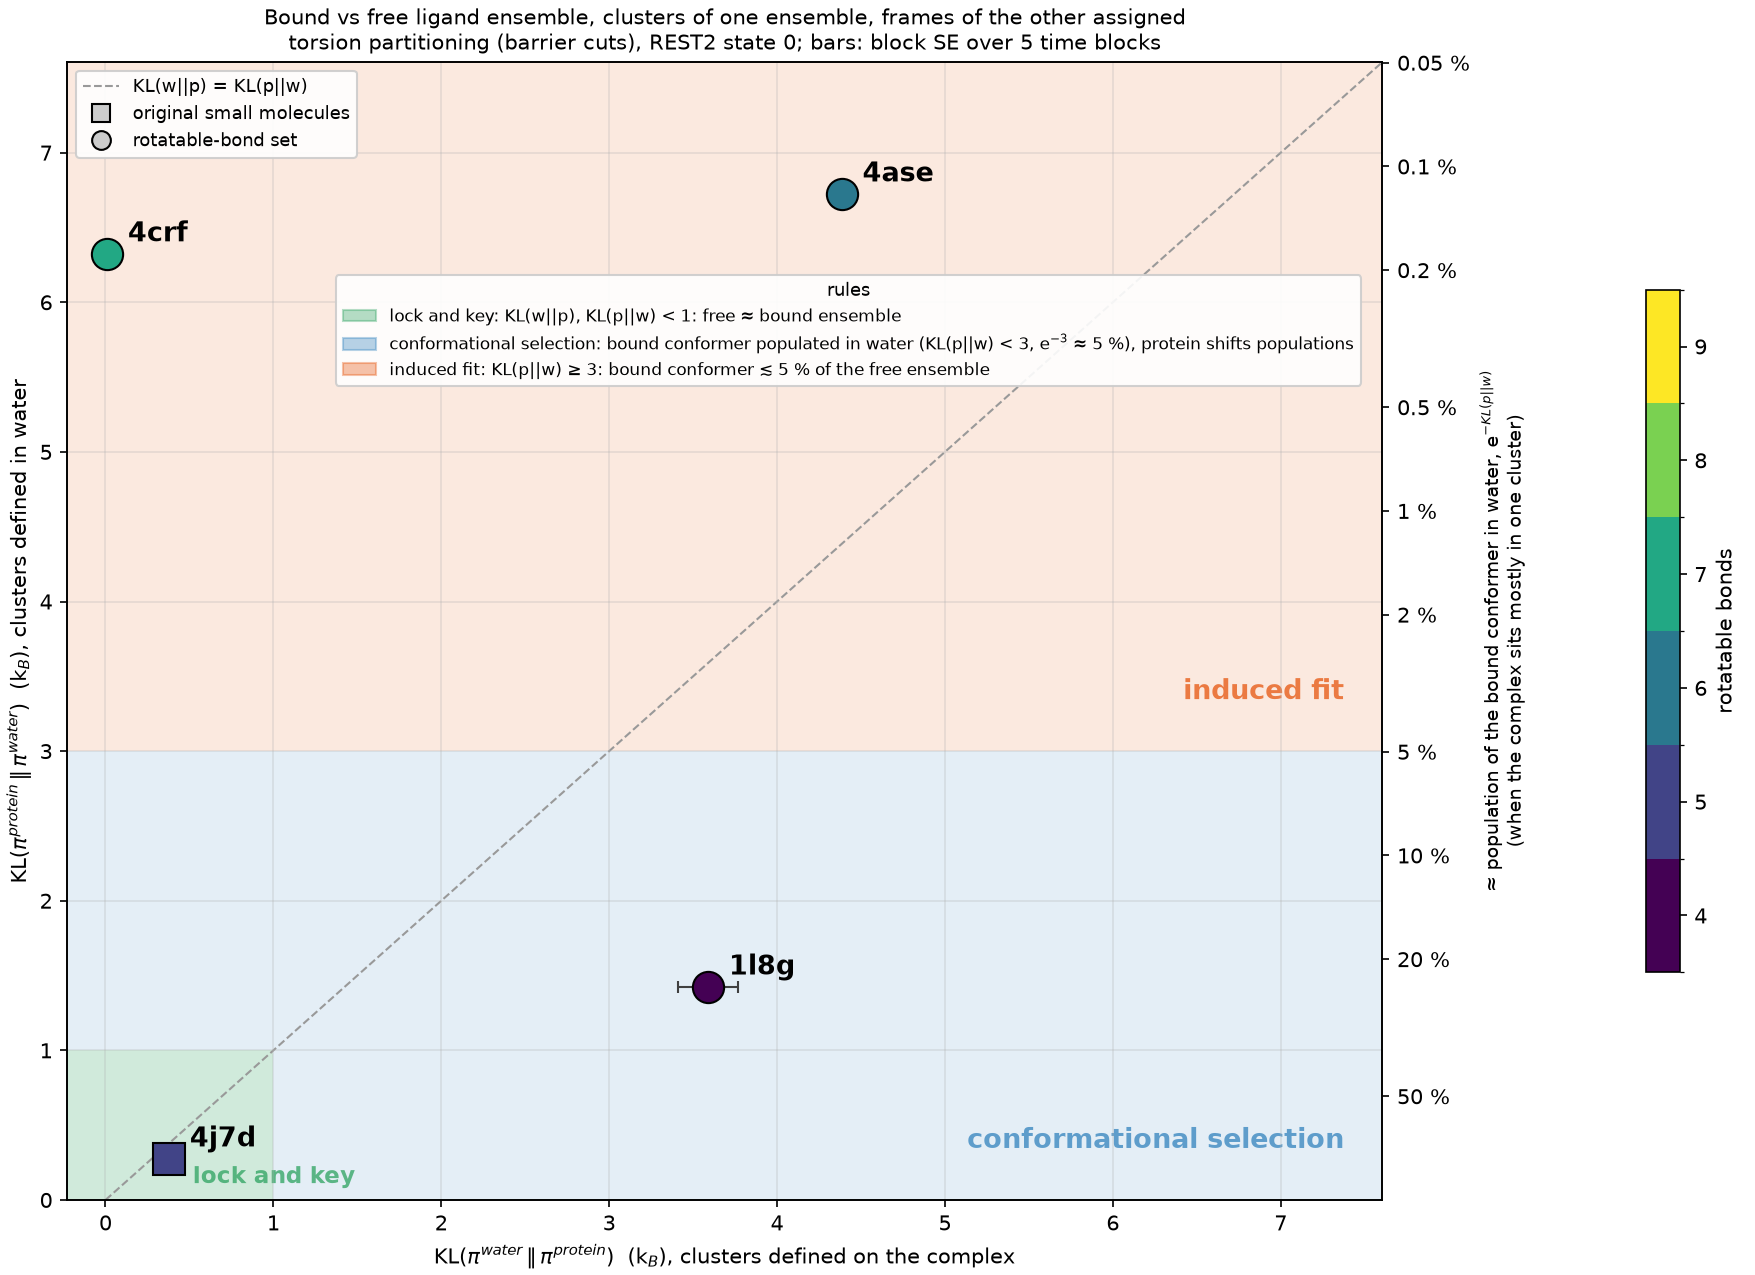
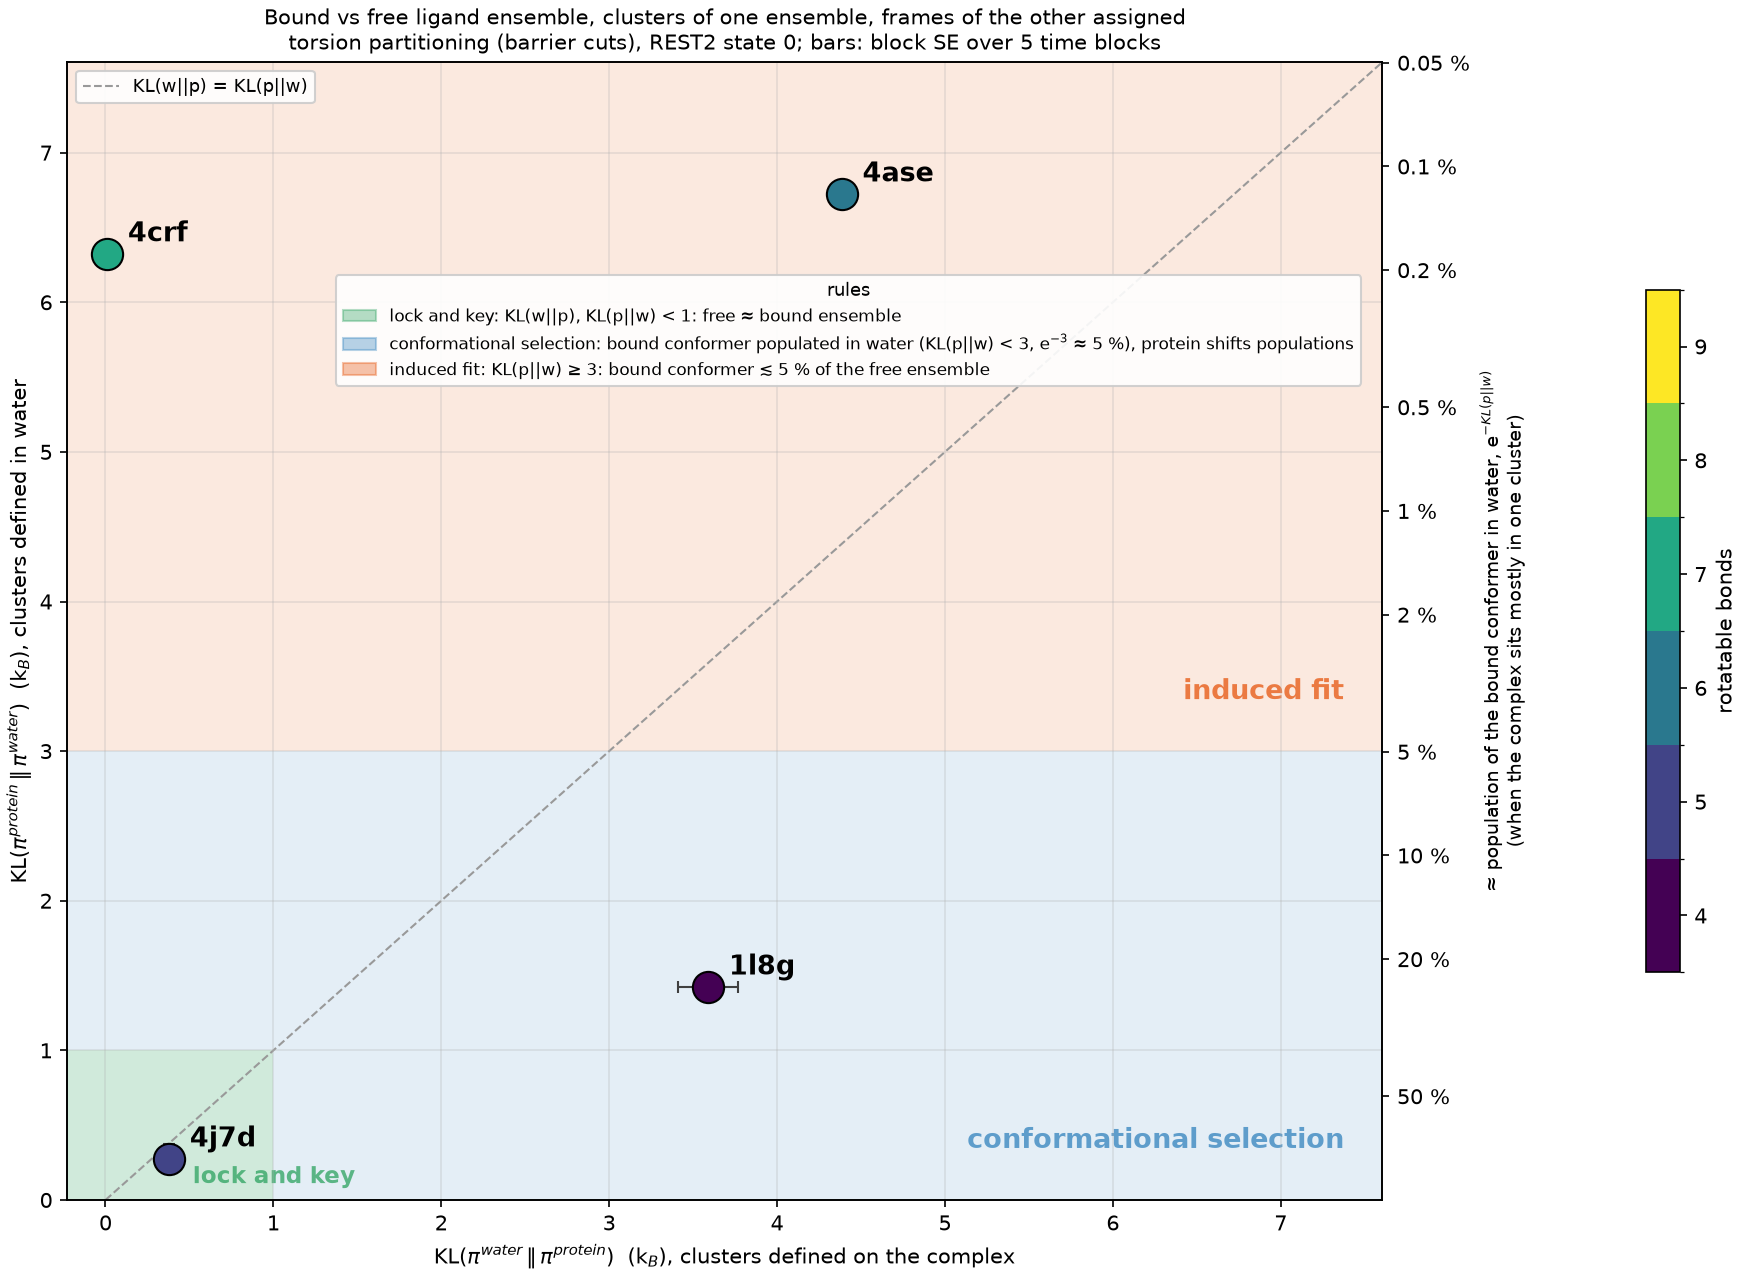
KL cross plots: one marker shape, white background, crowded labels moved apart

Changed region(s): [[0.0308, 0.0306, 0.2154, 0.1224]]

diff --git a/analysis/report/kl_cross.py b/analysis/report/kl_cross.py
@@ -33,8 +33,7 @@ ensemble against the reference's full populations (the clustering is not refitte
                                       <out>/kl_cross_{cut,hdbscan}_regions.png: the same with the binding
                                       regimes as background (regime(); --lock-key-max, --induced-fit-min);
                                       <out>/kl_cross_cut_examples{,_regions}.png: only 4j7d, 4crf, 4ase, 1l8g.
-                                      Points coloured by rotatable bonds, marker = compound set; the
-                                      figures without regions have a transparent background (slides)
+                                      Points coloured by rotatable bonds
 """
 import argparse
 import json
@@ -223,6 +222,7 @@ def run(args):
 
 
 EXAMPLES = ("4j7d", "4crf", "4ase", "1l8g")     # the four corners of the cut plot (Shu-Yu: explain the equation with them)
+LABEL_OFFSETS = {"5ov8": (-9, 5, "right"), "4p6w": (8, -12, "left"), "1eld": (8, 5, "left")}  # crowded corner
 SETS = {"folate": "^", "original small molecules": "s", "rotatable-bond set": "o"}
 
 
@@ -259,20 +259,19 @@ def draw_kl(ax, df, info, cmap, norm, top, args, regions, big=False):
         col = cmap(norm(rb))
         x = 0 if pd.isna(r.KL_w_p_complexdef) else r.KL_w_p_complexdef
         ax.errorbar(x, r.KL_p_w_waterdef, xerr=None if pd.isna(r.KL_w_p_complexdef) else r.KL_w_p_se,
-                    yerr=r.KL_p_w_se, fmt=SETS[kind], ms=15 if big else 10, mfc="white" if pd.isna(r.KL_w_p_complexdef) else col,
+                    yerr=r.KL_p_w_se, fmt="o", ms=15 if big else 10, mfc="white" if pd.isna(r.KL_w_p_complexdef) else col,
                     mec="k" if not pd.isna(r.KL_w_p_complexdef) else col, mew=1.0 if not pd.isna(r.KL_w_p_complexdef) else 2,
                     ecolor="0.25", elinewidth=1, capsize=3, zorder=4, clip_on=False)
         text = point_label(df, r) + ("\n(no complex cluster)" if pd.isna(r.KL_w_p_complexdef) else "")
-        ax.annotate(text, (x, r.KL_p_w_waterdef), textcoords="offset points", xytext=(10, 6) if big else (7, 4),
+        dx, dy, ha = (10, 6, "left") if big else LABEL_OFFSETS.get(r.ligand, (7, 4, "left"))
+        ax.annotate(text, (x, r.KL_p_w_waterdef), textcoords="offset points", xytext=(dx, dy), ha=ha,
                     fontsize=13 if big else 8.5, color="k", fontweight="bold" if big else "normal", zorder=5)
     ax.set_xlim(-0.03 * top, top)
     ax.set_ylim(0, top)
     ax.set_xlabel(r"KL($\pi^{water}\,\|\,\pi^{protein}$)  (k$_B$), clusters defined on the complex")
     ax.set_ylabel(r"KL($\pi^{protein}\,\|\,\pi^{water}$)  (k$_B$), clusters defined in water")
     ax.grid(alpha=0.3)
-    kinds = [k for k in SETS if any(info[l][1] == k for l in df.ligand)]
     handles = [Line2D([], [], color="0.6", ls="--", lw=1, label="KL(w||p) = KL(p||w)")]
-    handles += [Line2D([], [], marker=SETS[k], ls="", mfc="0.8", mec="k", ms=9, label=k) for k in kinds]
     ax.legend(handles=handles, loc="upper left", fontsize=8.5, framealpha=0.9)
 
 
@@ -318,7 +317,7 @@ def plot(args):
                             "most frames are unassigned: use the barrier-cut plot" if regions and method == "hdbscan" else ""),
                          fontsize=10)
             path = f"{args.out}/kl_cross_{method}{suffix}.png"
-            fig.savefig(path, dpi=150, transparent=not regions)      # no regions: transparent, for slides
+            fig.savefig(path, dpi=150)
             plt.close(fig)
             print(f"wrote {path}")
         print("  " + "; ".join(f"{g}: {', '.join(point_label(df, r) for r in d.itertuples())}"
